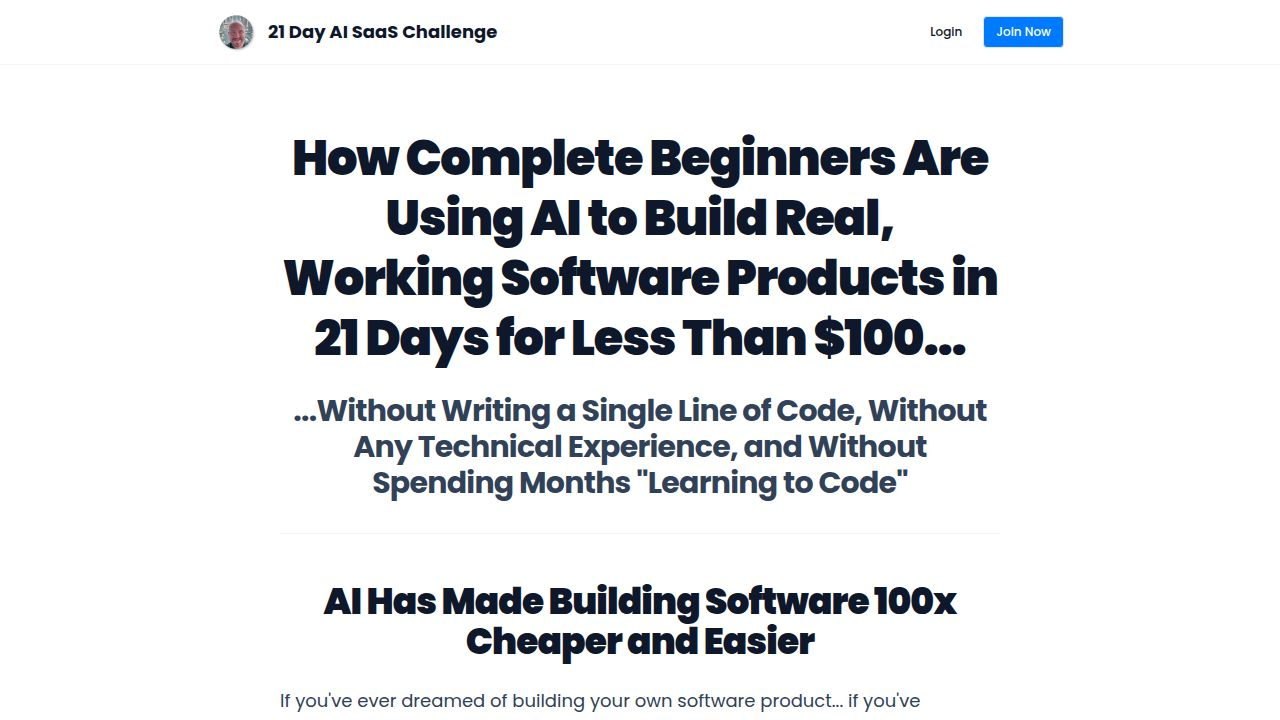
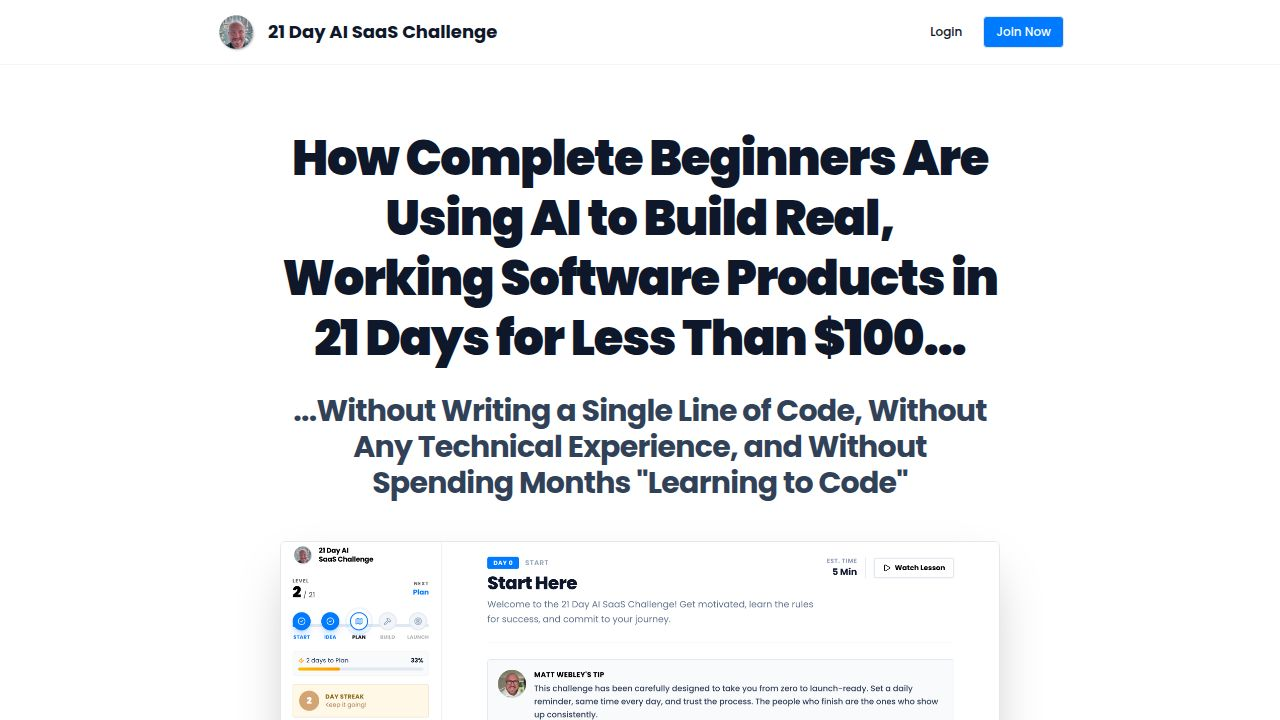
Add product screenshots to the sales page testimonials section
Update Landing.tsx to include three new product screenshots within the testimonials section, showcasing user-built SaaS products.

Replit-Commit-Author: Agent
Replit-Commit-Session-Id: c5a502aa-23ee-4b4d-86fd-eb9ae12219fa
Replit-Commit-Checkpoint-Type: full_checkpoint
Replit-Commit-Event-Id: 874f975a-3343-40c7-b6cf-8116922ec44d
Replit-Commit-Screenshot-Url: https://storage.googleapis.com/screenshot-production-us-central1/a6dcee1a-f2bb-4aa6-a6f0-4b7ac14f3a3f/c5a502aa-23ee-4b4d-86fd-eb9ae12219fa/QN9GLsx
Replit-Helium-Checkpoint-Created: true

Changed region(s): [[0.2188, 0.7639, 0.75, 1.0]]

diff --git a/client/src/pages/Landing.tsx b/client/src/pages/Landing.tsx
@@ -419,6 +419,56 @@ export default function Landing() {
           </div>
         </section>
 
+        {/* TESTIMONIALS */}
+        <section className="py-12 border-t border-slate-100">
+          <div className="space-y-8">
+            <h2 className="text-3xl md:text-4xl font-black text-slate-900 text-center">
+              Real People. Real Products. Built With This System.
+            </h2>
+
+            <div className="space-y-8">
+              {/* Product 1 - VerifyCreator */}
+              <div className="bg-slate-50 border-2 border-slate-200 rounded-xl overflow-hidden">
+                <img 
+                  src="/attached_assets/Screenshot_2026-01-14_at_07.44.06_1768362527750.png" 
+                  alt="VerifyCreator - AI platform to detect fake influencers" 
+                  className="w-full"
+                />
+                <div className="p-6">
+                  <p className="font-bold text-slate-900 text-lg">VerifyCreator</p>
+                  <p className="text-slate-600">AI-powered influencer verification platform</p>
+                </div>
+              </div>
+
+              {/* Product 2 - AuditMyListing */}
+              <div className="bg-slate-50 border-2 border-slate-200 rounded-xl overflow-hidden">
+                <img 
+                  src="/attached_assets/Screenshot_2026-01-14_at_07.45.19_1768362533901.png" 
+                  alt="AuditMyListing - Amazon & eBay listing optimizer" 
+                  className="w-full"
+                />
+                <div className="p-6">
+                  <p className="font-bold text-slate-900 text-lg">AuditMyListing</p>
+                  <p className="text-slate-600">Amazon & eBay listing optimization tool</p>
+                </div>
+              </div>
+
+              {/* Product 3 - MusoBuddy */}
+              <div className="bg-slate-50 border-2 border-slate-200 rounded-xl overflow-hidden">
+                <img 
+                  src="/attached_assets/Screenshot_2026-01-14_at_07.44.33_1768362522809.png" 
+                  alt="MusoBuddy - Gig management for freelance musicians" 
+                  className="w-full"
+                />
+                <div className="p-6">
+                  <p className="font-bold text-slate-900 text-lg">MusoBuddy</p>
+                  <p className="text-slate-600">Gig management software for freelance musicians</p>
+                </div>
+              </div>
+            </div>
+          </div>
+        </section>
+
         {/* The "This Actually Works" Section */}
         <section className="py-12 border-t border-slate-100">
           <div className="space-y-6 text-lg text-slate-700">
